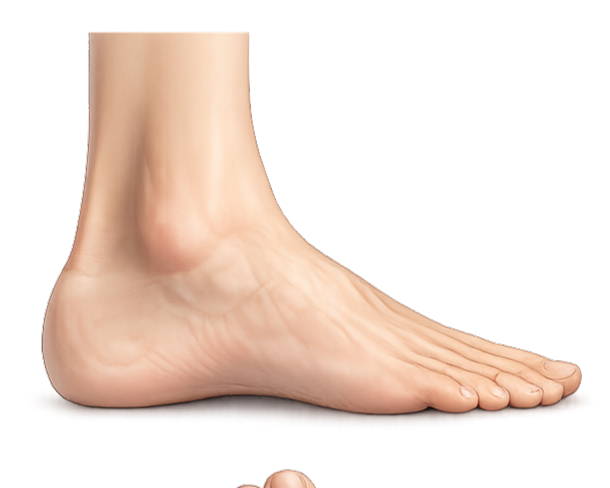
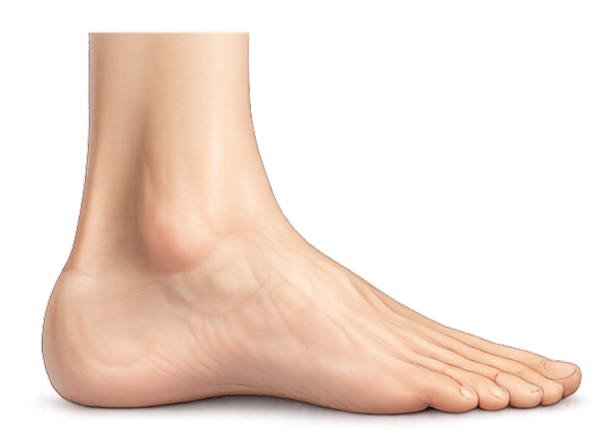
fix(bodymap): white background fill before JPEG conversion
Prevents transparent areas from rendering as black in JPEG output.
Updated PNG assets.

Changed region(s): [[0.0593, 0.2641, 0.9786, 1.0], [0.4448, 0.6163, 0.5634, 0.7336], [0.1483, 0.0587, 0.4152, 0.088]]

diff --git a/src/components/blocks/BodyMapBlock.tsx b/src/components/blocks/BodyMapBlock.tsx
@@ -80,6 +80,8 @@ async function resizeAndOptimizeImage(src: string): Promise<string> {
       canvas.height = height;
       const ctx = canvas.getContext('2d');
       if (!ctx) { reject(new Error('Canvas context nicht verfügbar')); return; }
+      ctx.fillStyle = 'white';
+      ctx.fillRect(0, 0, width, height);
       ctx.drawImage(img, 0, 0, width, height);
       resolve(canvas.toDataURL('image/jpeg', BODYMAP_CONFIG.jpegQuality));
     };
